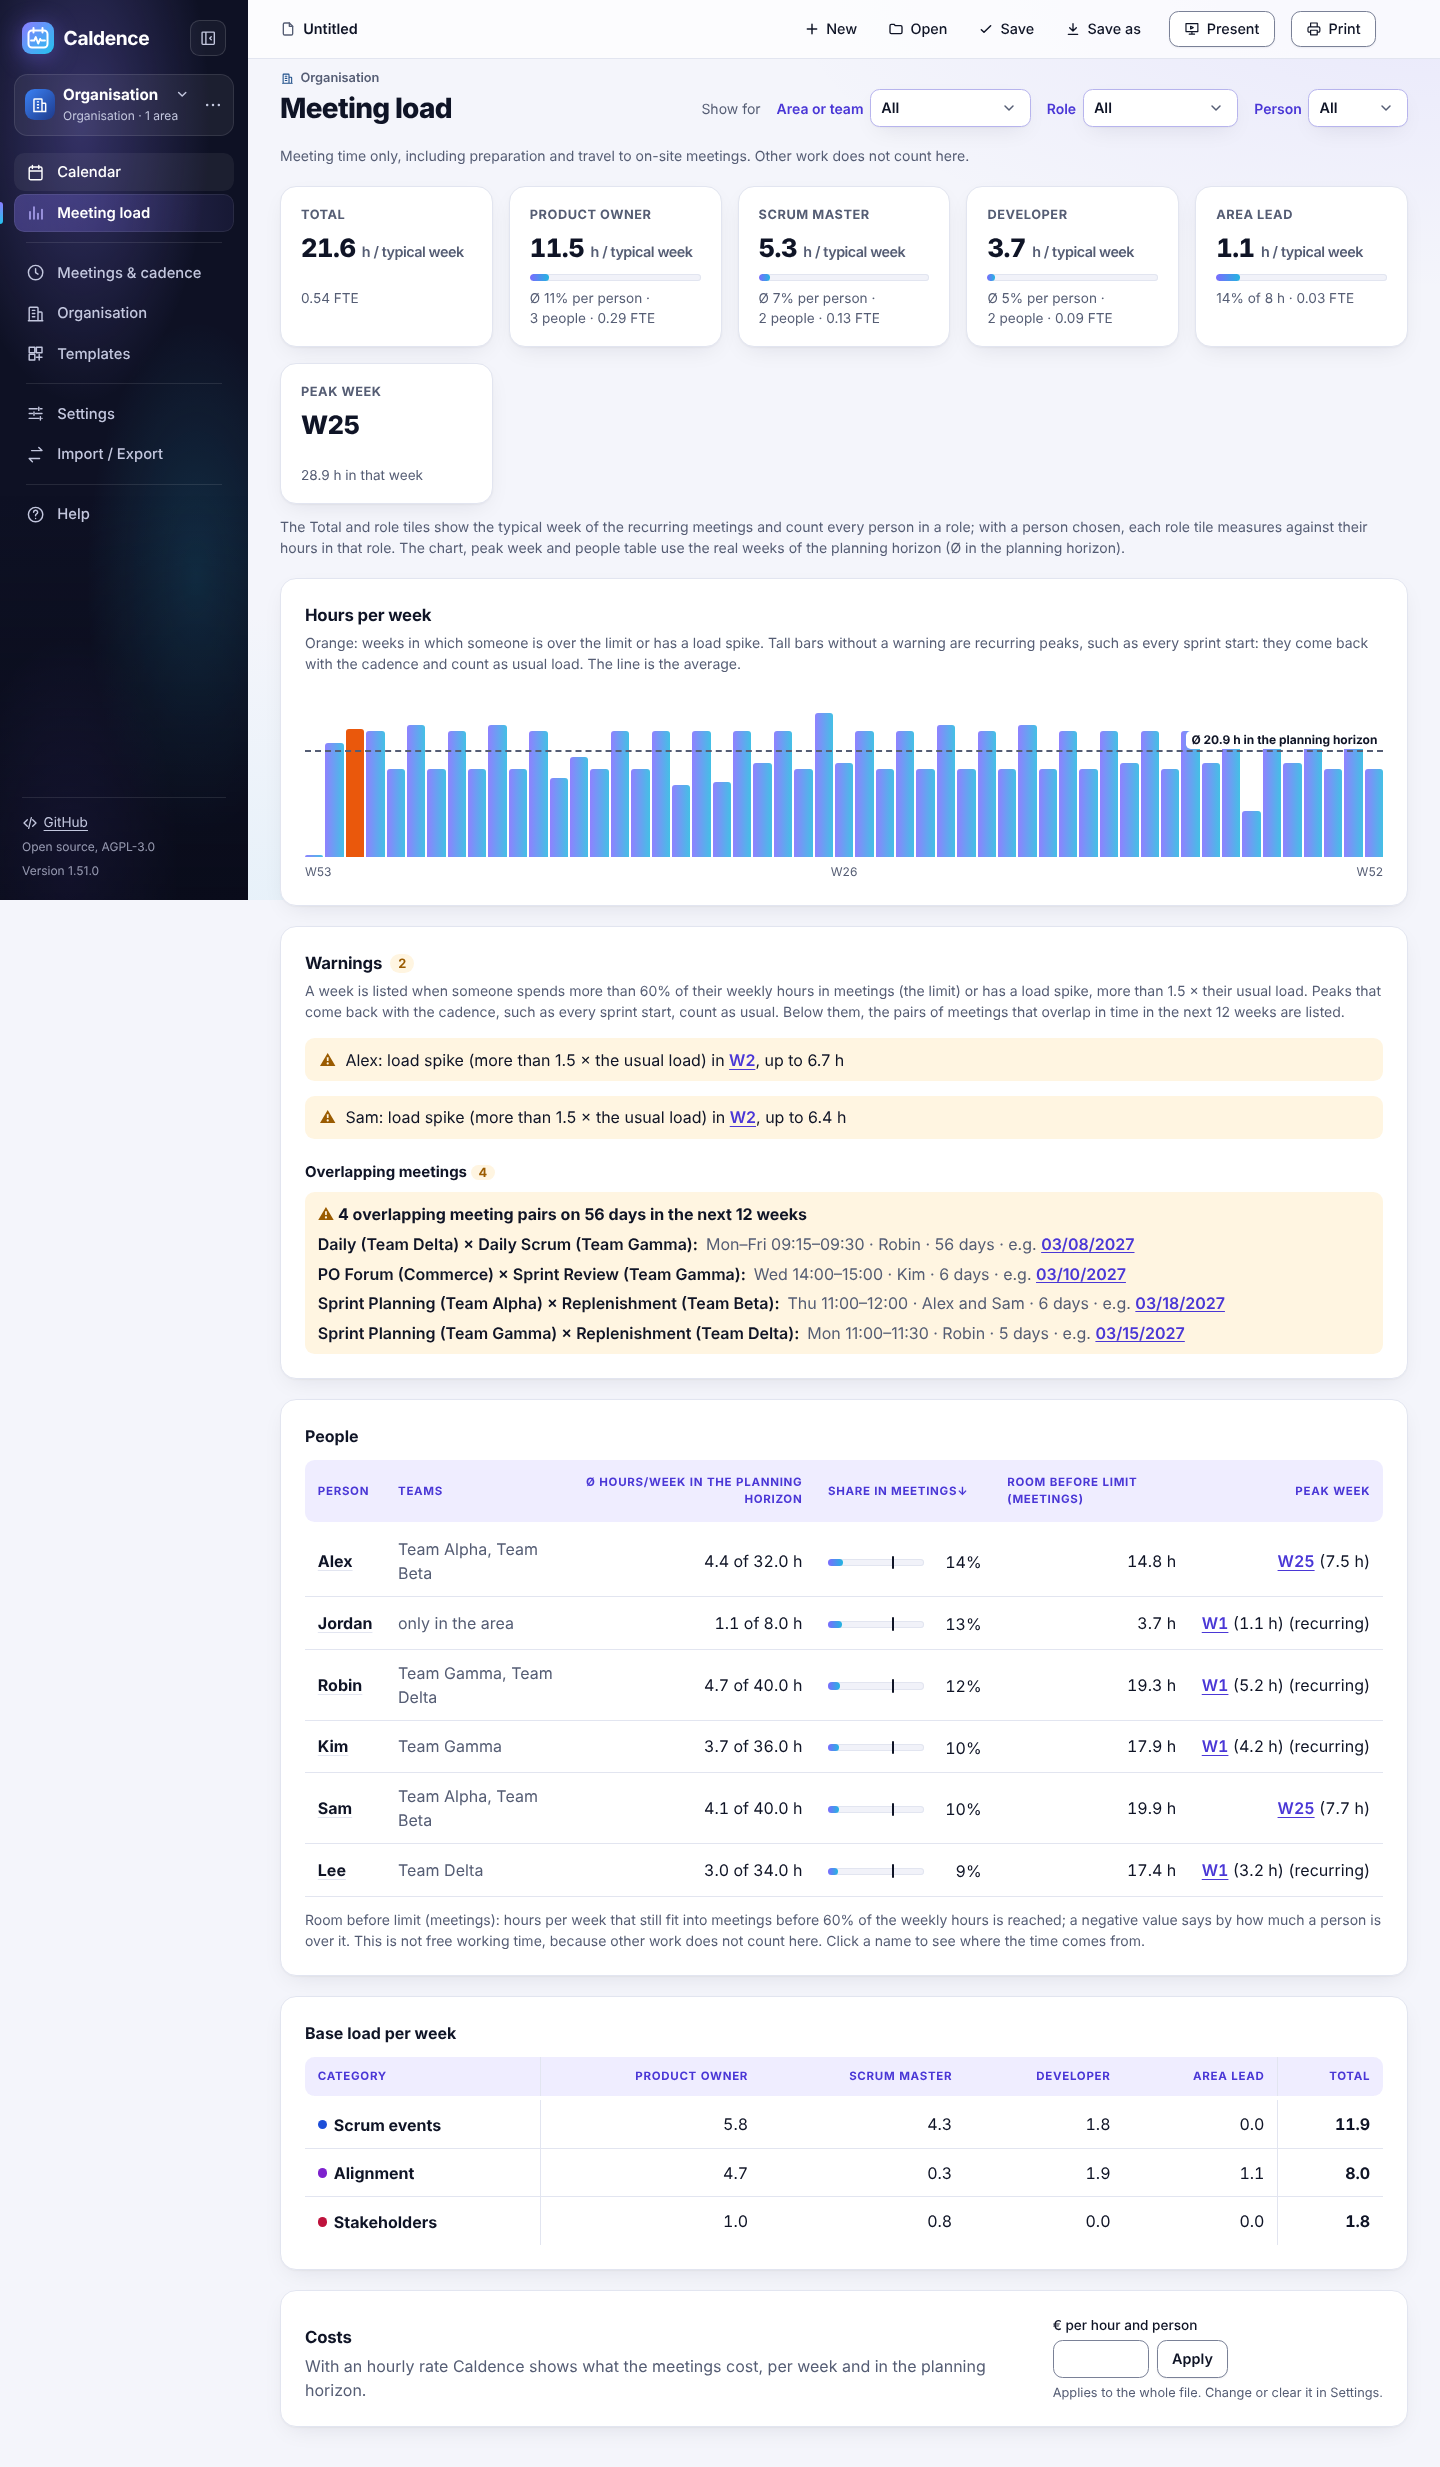
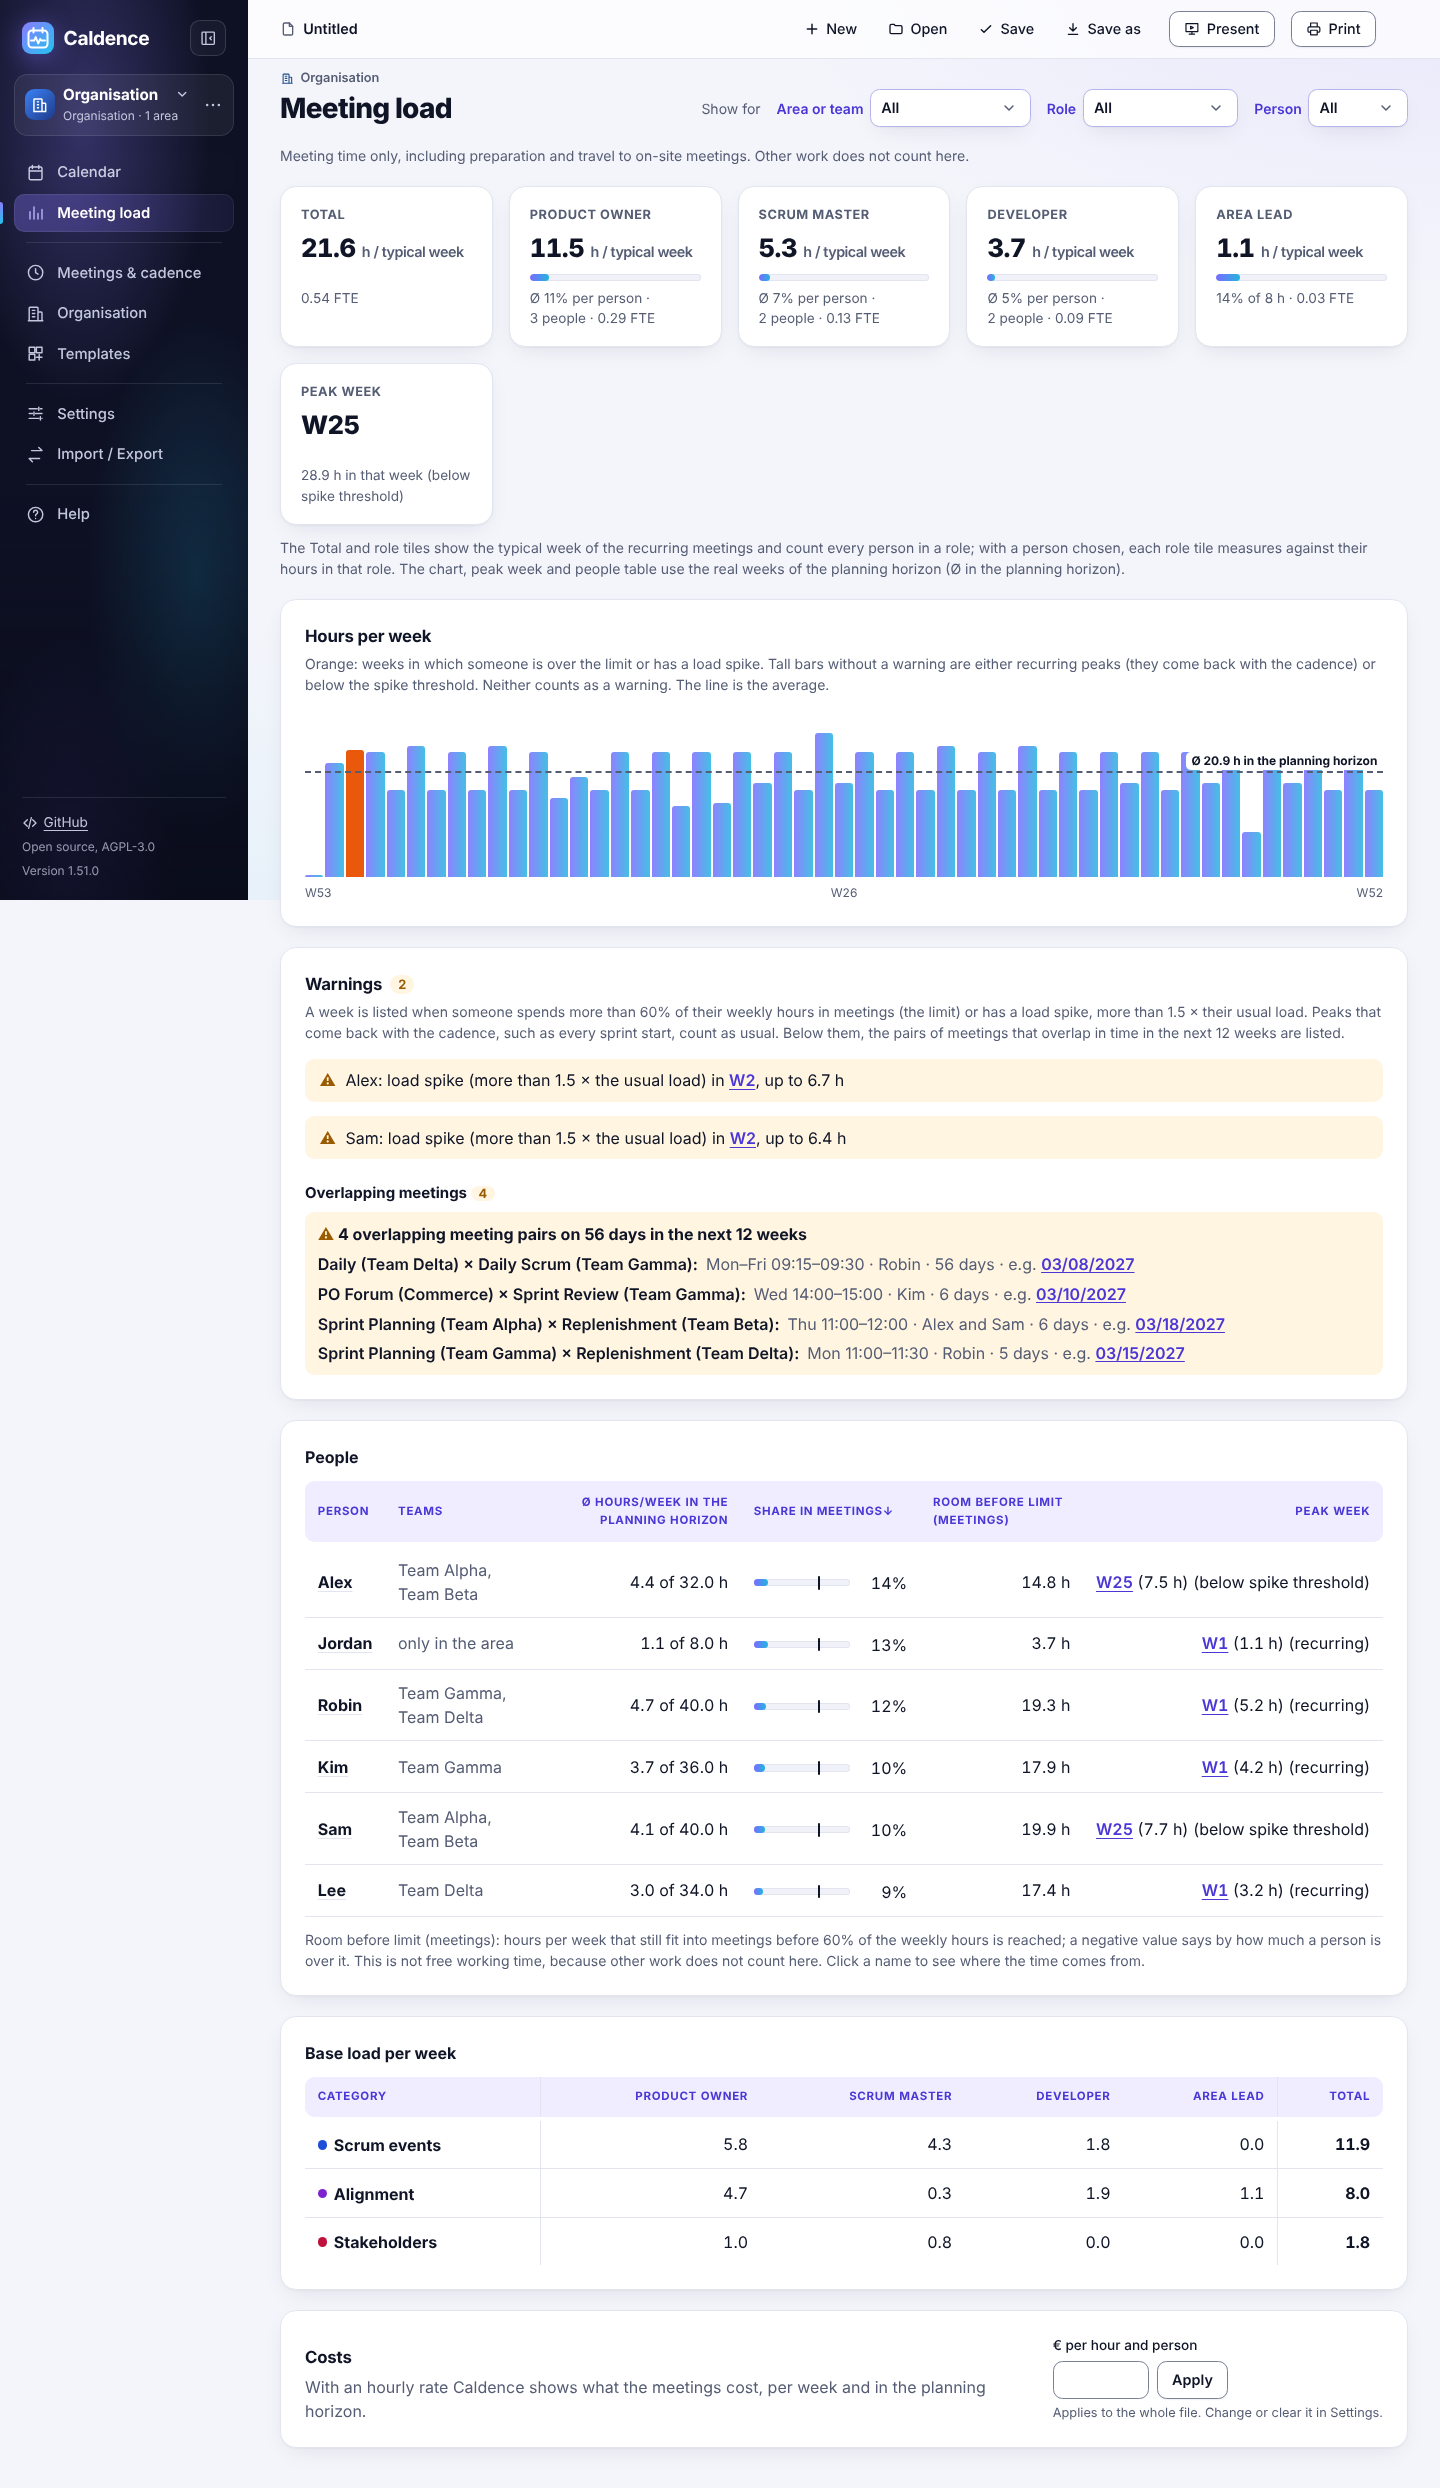
Mark non-recurring peaks without a warning as below the spike threshold (#510)

diff --git a/src/ui/views/LoadView.svelte b/src/ui/views/LoadView.svelte
@@ -15,7 +15,7 @@
     overMax,
     personLoad,
     personMeetings,
-    recurringPeak,
+    peakKind,
     roomBeforeLimit,
     warnings,
     type PersonMeeting,
@@ -131,7 +131,7 @@
         units: unitsOf(person.id),
         peak,
         /** The peak comes back with the cadence and has no warning (#510). */
-        recurring: recurringPeak(
+        peakKind: peakKind(
           weeks.map((w) => ({ monday: w.monday, hours: w.byPerson[person.id] ?? 0 })),
           (monday) => allWarnings.some((w) => w.personId === person.id && w.monday === monday),
         ),
@@ -411,8 +411,18 @@
     ),
   );
   const warned = $derived(warnedWeeks($workspace, allWarnings, $filter));
-  const peakRecurring = $derived(
-    recurringPeak(
+  const PEAK_KEY = {
+    warned: 'load.peak',
+    recurring: 'load.peak.recurring',
+    below: 'load.peak.below',
+  } as const;
+  const PEAK_TILE_KEY = {
+    warned: 'load.kpi.peak.hours',
+    recurring: 'load.kpi.peak.hours.recurring',
+    below: 'load.kpi.peak.hours.below',
+  } as const;
+  const peakTileKind = $derived(
+    peakKind(
       rows.map((r) => ({ monday: r.monday, hours: r.total })),
       (monday) => warned.has(monday),
     ),
@@ -647,7 +657,7 @@
           </td>
           <td role="cell" class="num nowrap peak" data-cap={$t('load.col.peak')}>
             {#if p.peak}
-              {@const [before, after] = $t(p.recurring ? 'load.peak.recurring' : 'load.peak', {
+              {@const [before, after] = $t(PEAK_KEY[p.peakKind ?? 'warned'], {
                 week: '\uE000',
                 hours: hours(p.peak.hours),
               }).split('\uE000')}
@@ -786,7 +796,7 @@
       {#if peak}
         <span class="value">{weekLabel(peak.monday)}</span>
         <span class="sub">
-          {$t(peakRecurring ? 'load.kpi.peak.hours.recurring' : 'load.kpi.peak.hours', {
+          {$t(PEAK_TILE_KEY[peakTileKind ?? 'warned'], {
             hours: hours(peak.total),
           })}
         </span>
@@ -1343,7 +1353,8 @@
       grid-template-areas:
         'who share'
         'units hours'
-        'free peak'
+        'free free'
+        'peak peak'
         'here here';
       column-gap: 0.75rem;
       row-gap: 0.15rem;
@@ -1382,6 +1393,8 @@
     .people .peak {
       grid-area: peak;
       margin-top: 0.35rem;
+      text-align: left;
+      white-space: normal;
     }
     .people .here {
       grid-area: here;
@@ -1394,7 +1407,6 @@
       color: var(--text-muted);
       font-size: 0.75rem;
       font-weight: 600;
-      white-space: normal;
     }
     .people .share .bar {
       width: 3.5rem;

diff --git a/tests/unit/recurring-peak.test.ts b/tests/unit/recurring-peak.test.ts
@@ -1,21 +1,21 @@
 import { describe, expect, it } from 'vitest';
-import { recurringPeak } from '../../src/core/load';
+import { peakKind } from '../../src/core/load';
 
 const w = (hours: number[]) => hours.map((h, i) => ({ monday: `2027-01-${10 + i}`, hours: h }));
 const none = () => false;
 
-describe('recurringPeak (#510)', () => {
+describe('peakKind (#510)', () => {
   it('is recurring when another week reaches 95 % of the peak', () => {
-    expect(recurringPeak(w([2, 10, 3, 9.5]), none)).toBe(true);
+    expect(peakKind(w([2, 10, 3, 9.5]), none)).toBe('recurring');
   });
   it('is not recurring for a one-off peak', () => {
-    expect(recurringPeak(w([2, 10, 3, 9]), none)).toBe(false);
+    expect(peakKind(w([2, 10, 3, 9]), none)).toBe('below');
   });
   it('is not recurring when the peak week has any warning', () => {
-    expect(recurringPeak(w([10, 10]), (m) => m === '2027-01-10')).toBe(false);
+    expect(peakKind(w([10, 10]), (m) => m === '2027-01-10')).toBe('warned');
   });
   it('is not recurring without meetings', () => {
-    expect(recurringPeak(w([0, 0]), none)).toBe(false);
+    expect(peakKind(w([0, 0]), none)).toBeUndefined();
   });
 });
 
@@ -25,5 +25,6 @@ describe('German load basis texts (#510)', async () => {
     expect(de['load.col.hours']).toBe('Ø Stunden/Woche im Planungszeitraum');
     expect(de['load.peak.recurring']).toBe('{week} ({hours} h) (wiederkehrend)');
     expect(de['load.chart.hint']).toContain('Hohe Balken ohne Warnung');
+    expect(de['load.peak.below']).toBe('{week} ({hours} h) (unter der Spitzengrenze)');
   });
 });

diff --git a/tests/e2e/load-basis.spec.ts b/tests/e2e/load-basis.spec.ts
@@ -23,12 +23,18 @@ test.describe('Meeting load basis', () => {
     await expect(
       panel.getByRole('columnheader', { name: 'Ø hours/week in the planning horizon' }),
     ).toBeVisible();
-    await expect(panel.getByText(/Tall bars without a warning are recurring peaks/)).toBeVisible();
-    // Jordan's peak comes back every sprint; Alex's W25 is a one-off peak.
+    await expect(
+      panel.getByText(/Tall bars without a warning are either recurring peaks/),
+    ).toBeVisible();
+    // Jordan's peak comes back every sprint; Alex's W25 is a one-off peak below the spike threshold.
     await expect(panel.locator('tr[data-person="person-jordan"] td.peak')).toHaveText(
       'W1 (1.1 h) (recurring)',
     );
-    await expect(panel.locator('tr[data-person="person-alex"] td.peak')).toHaveText('W25 (7.5 h)');
-    await expect(panel.locator('[data-peak] .sub')).toHaveText('28.9 h in that week');
+    await expect(panel.locator('tr[data-person="person-alex"] td.peak')).toHaveText(
+      'W25 (7.5 h) (below spike threshold)',
+    );
+    await expect(panel.locator('[data-peak] .sub')).toHaveText(
+      '28.9 h in that week (below spike threshold)',
+    );
   });
 });

diff --git a/src/core/load.ts b/src/core/load.ts
@@ -485,15 +485,17 @@ export function personMeetings(
 }
 
 /**
- * True when the highest week has no warning and comes back: another week reaches at least 95 %
- * of it, as with every sprint start (#510). A one-off peak or a warned week is not recurring.
+ * What the highest week is (#510): 'warned' when it has a warning, 'recurring' when another week
+ * reaches at least 95 % of it (it comes back with the cadence), else 'below' (below the spike
+ * threshold). Undefined without meetings.
  */
-export function recurringPeak(
+export function peakKind(
   weeks: readonly { monday: string; hours: number }[],
   warned: (monday: string) => boolean,
-): boolean {
+): 'warned' | 'recurring' | 'below' | undefined {
   let peak: { monday: string; hours: number } | undefined;
   for (const w of weeks) if (w.hours > 0 && (!peak || w.hours > peak.hours)) peak = w;
-  if (!peak || warned(peak.monday)) return false;
-  return weeks.some((w) => w !== peak && w.hours >= 0.95 * peak.hours);
+  if (!peak) return undefined;
+  if (warned(peak.monday)) return 'warned';
+  return weeks.some((w) => w !== peak && w.hours >= 0.95 * peak.hours) ? 'recurring' : 'below';
 }

diff --git a/tests/e2e/weeks-load.spec.ts b/tests/e2e/weeks-load.spec.ts
@@ -335,7 +335,7 @@ test('the person filter limits the person table and the warnings to that person'
     `${fmt('en', ALEX.average)} of ${fmt('en', 32)} h`,
     pct('en', ALEX.fte),
     `${fmt('en', 0.6 * 32 - ALEX.average)} h`,
-    `W${ALEX.peakWeek} (${fmt('en', ALEX.peakHours)} h)`,
+    `W${ALEX.peakWeek} (${fmt('en', ALEX.peakHours)} h) (below spike threshold)`,
   ]);
   const items = panel
     .getByRole('region', { name: 'Warnings', exact: true })

diff --git a/docs/glossary.md b/docs/glossary.md
@@ -16,7 +16,7 @@ column and bar uses it and shows its value ("über 60 %").
 - The second rule (`warnFactor`, default 1.5 × the person's usual load) is a **Lastspitze** /
   **load spike**. It is never called "Überlast" or "Grenze".
 - "Spitzenwoche" / "Peak week" stays: the week with the most hours.
-- "(wiederkehrend)" / "(recurring)" marks a peak week without a load spike: it comes back with the cadence (#510).
+- "(wiederkehrend)" / "(recurring)" marks a peak week without a warning that comes back with the cadence; "(unter der Spitzengrenze)" / "(below spike threshold)" marks one without a warning that does not recur. Neither counts as a warning (#510).
 
 ## Terms
 
